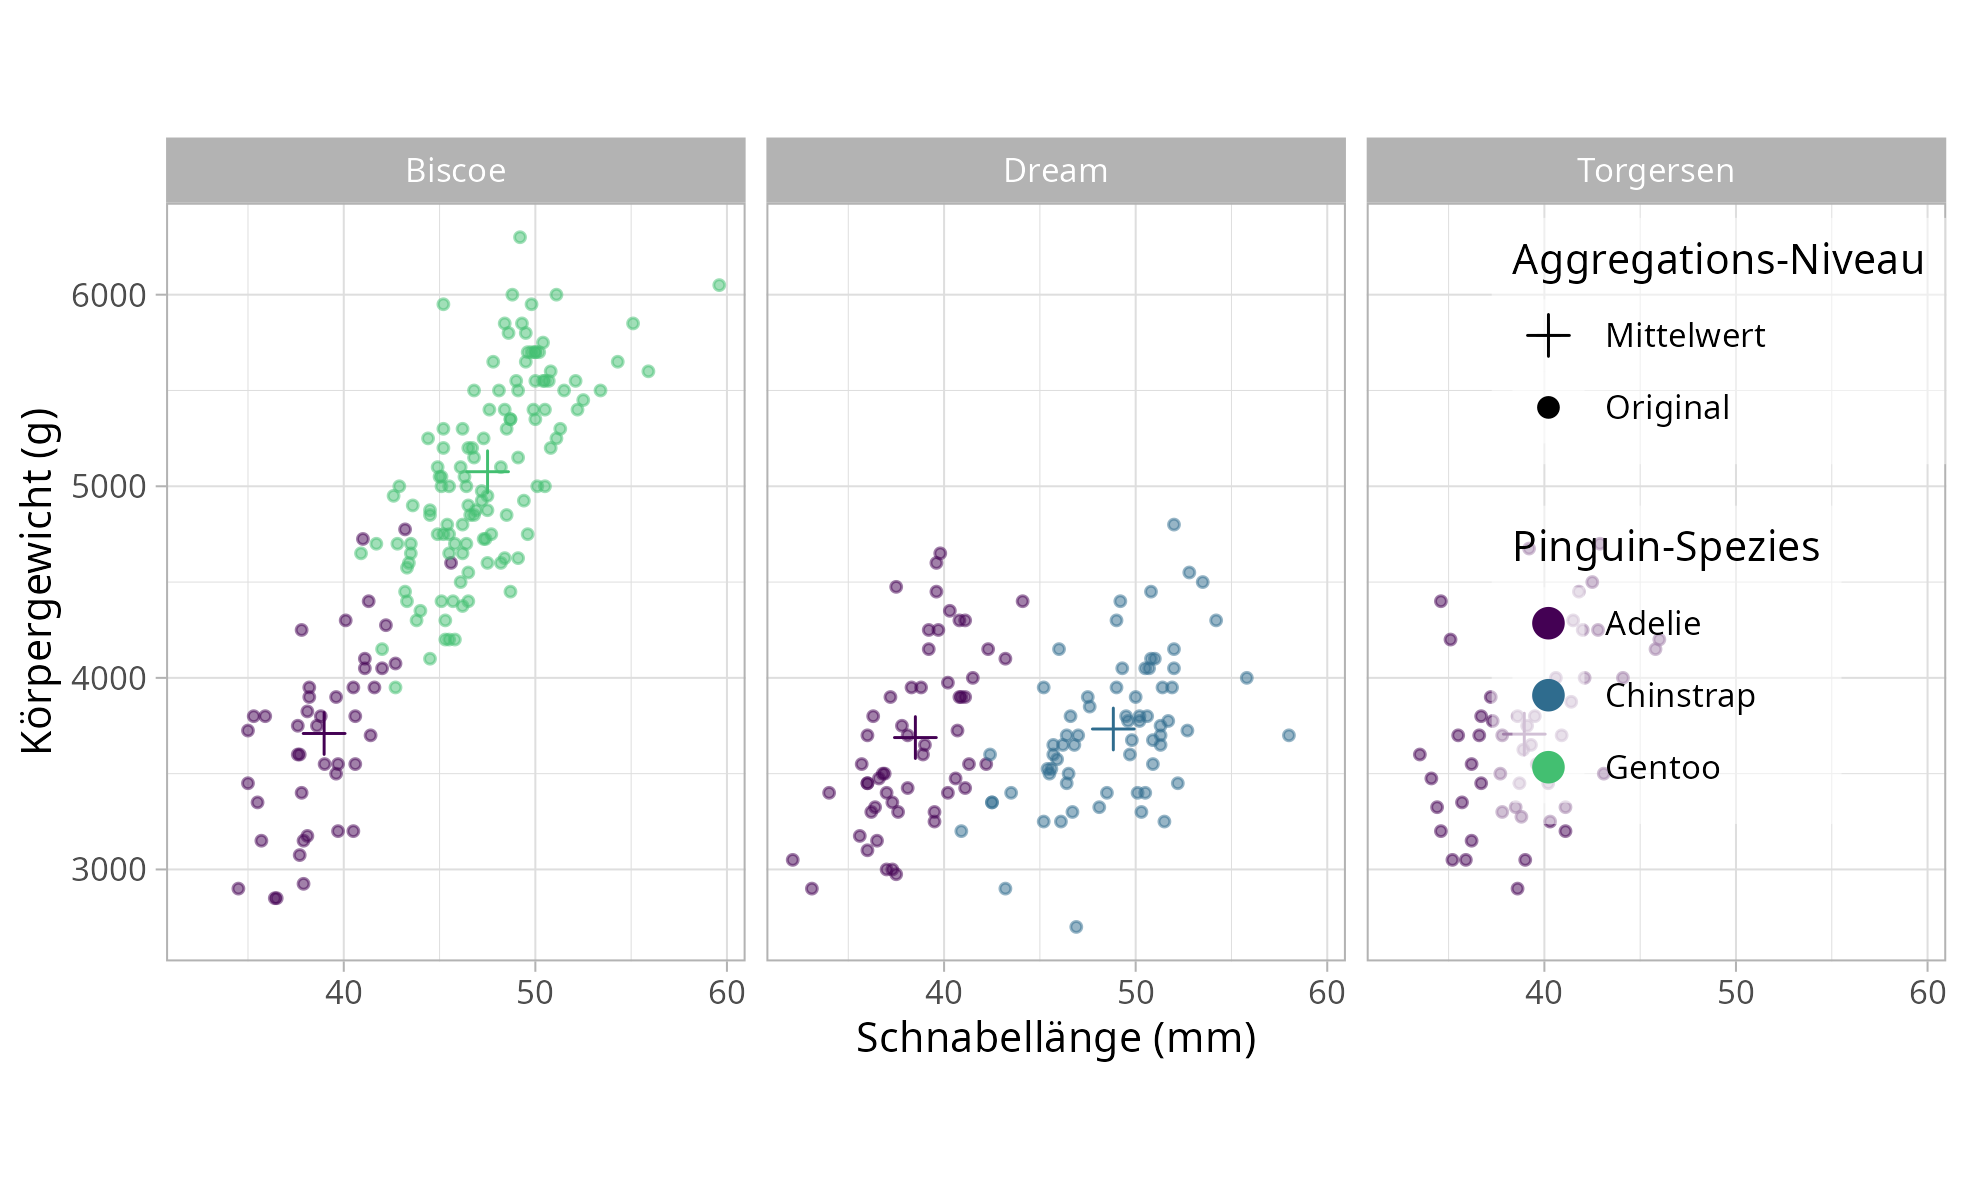
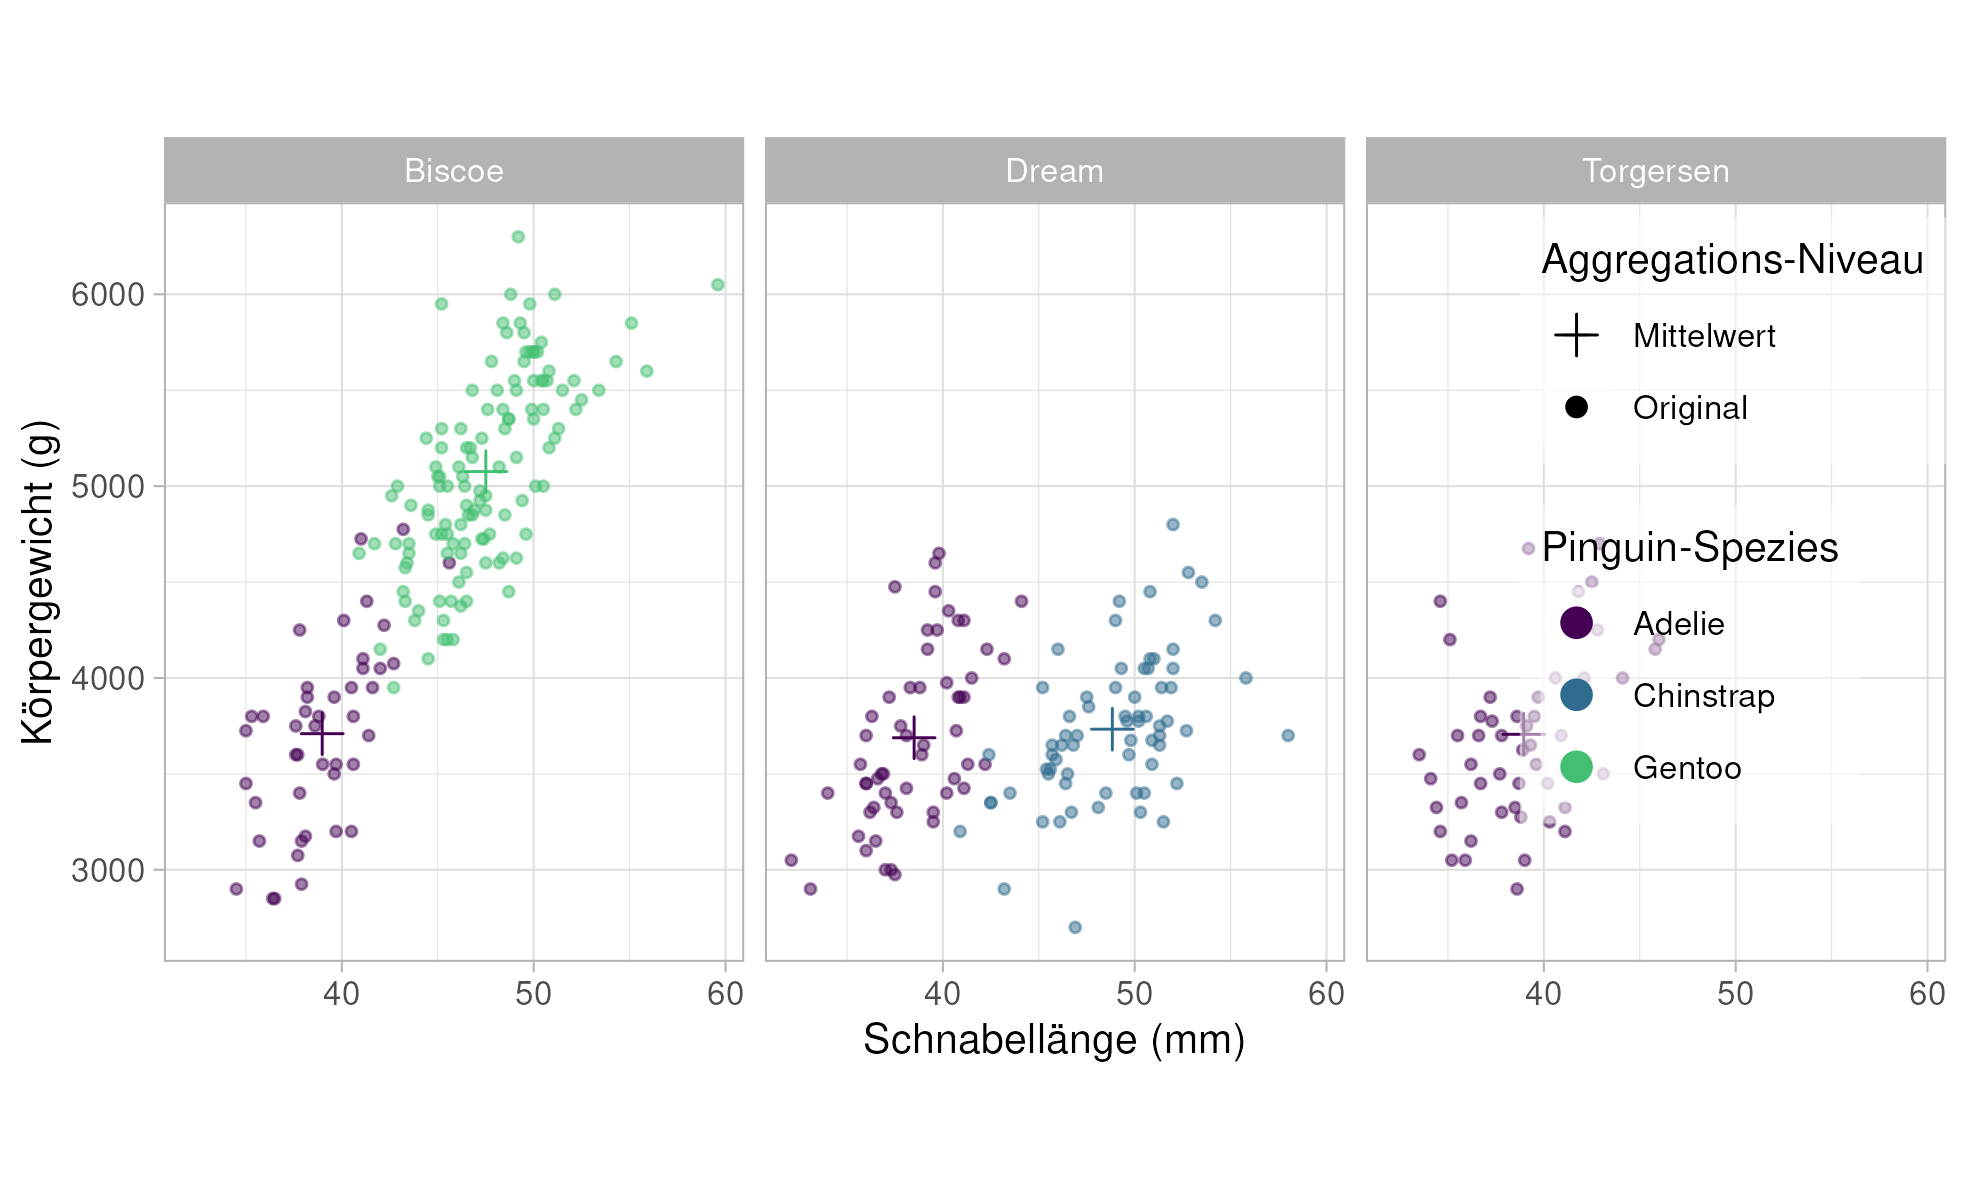
fixed error, added text about colab

diff --git a/docs/quarto/graphics.html b/docs/quarto/graphics.html
@@ -571,7 +571,7 @@ div.csl-indent {
 <span id="cb27-11"><a href="#cb27-11" aria-hidden="true" tabindex="-1"></a>  <span class="fu">scale_shape_manual</span>(<span class="at">values =</span> <span class="fu">c</span>(<span class="at">original =</span> <span class="dv">20</span>, <span class="at">mean =</span> <span class="dv">3</span>))<span class="sc">+</span></span>
 <span id="cb27-12"><a href="#cb27-12" aria-hidden="true" tabindex="-1"></a>  <span class="fu">coord_fixed</span>(<span class="at">ratio =</span> <span class="dv">10</span><span class="sc">/</span><span class="dv">1000</span>) <span class="sc">+</span></span>
 <span id="cb27-13"><a href="#cb27-13" aria-hidden="true" tabindex="-1"></a>  <span class="fu">facet_wrap</span>(<span class="sc">~</span>island) <span class="sc">+</span></span>
-<span id="cb27-14"><a href="#cb27-14" aria-hidden="true" tabindex="-1"></a>  <span class="fu">theme_light</span>(<span class="at">base_family =</span> <span class="st">'Helvetical'</span>,</span>
+<span id="cb27-14"><a href="#cb27-14" aria-hidden="true" tabindex="-1"></a>  <span class="fu">theme_light</span>(<span class="at">base_family =</span> <span class="st">'Helvetica'</span>,</span>
 <span id="cb27-15"><a href="#cb27-15" aria-hidden="true" tabindex="-1"></a>              <span class="at">base_size =</span> <span class="dv">10</span>)</span></code><button title="Copy to Clipboard" class="code-copy-button"><i class="bi"></i></button></pre></div>
 <div class="cell-output cell-output-stderr">
 <pre><code>Warning: Removed 2 rows containing missing values (`geom_point()`).</code></pre>
@@ -595,7 +595,7 @@ div.csl-indent {
 <span id="cb29-11"><a href="#cb29-11" aria-hidden="true" tabindex="-1"></a>  <span class="fu">scale_shape_manual</span>(<span class="at">values =</span> <span class="fu">c</span>(<span class="at">original =</span> <span class="dv">20</span>, <span class="at">mean =</span> <span class="dv">3</span>))<span class="sc">+</span></span>
 <span id="cb29-12"><a href="#cb29-12" aria-hidden="true" tabindex="-1"></a>  <span class="fu">coord_fixed</span>(<span class="at">ratio =</span> <span class="dv">10</span><span class="sc">/</span><span class="dv">1000</span>) <span class="sc">+</span></span>
 <span id="cb29-13"><a href="#cb29-13" aria-hidden="true" tabindex="-1"></a>  <span class="fu">facet_wrap</span>(<span class="sc">~</span>island) <span class="sc">+</span></span>
-<span id="cb29-14"><a href="#cb29-14" aria-hidden="true" tabindex="-1"></a>  <span class="fu">theme_light</span>(<span class="at">base_family =</span> <span class="st">'Helvetical'</span>,</span>
+<span id="cb29-14"><a href="#cb29-14" aria-hidden="true" tabindex="-1"></a>  <span class="fu">theme_light</span>(<span class="at">base_family =</span> <span class="st">'Helvetica'</span>,</span>
 <span id="cb29-15"><a href="#cb29-15" aria-hidden="true" tabindex="-1"></a>              <span class="at">base_size =</span> <span class="dv">10</span>) <span class="sc">+</span></span>
 <span id="cb29-16"><a href="#cb29-16" aria-hidden="true" tabindex="-1"></a>  <span class="fu">labs</span>(<span class="at">x =</span> <span class="st">'Schnabellänge (mm)'</span>,</span>
 <span id="cb29-17"><a href="#cb29-17" aria-hidden="true" tabindex="-1"></a>       <span class="at">y =</span> <span class="st">'Körpergewicht (g)'</span>,</span>
@@ -623,7 +623,7 @@ div.csl-indent {
 <span id="cb31-11"><a href="#cb31-11" aria-hidden="true" tabindex="-1"></a>  <span class="fu">scale_shape_manual</span>(<span class="at">values =</span> <span class="fu">c</span>(<span class="at">Original =</span> <span class="dv">20</span>, <span class="at">Mittelwert =</span> <span class="dv">3</span>))<span class="sc">+</span></span>
 <span id="cb31-12"><a href="#cb31-12" aria-hidden="true" tabindex="-1"></a>  <span class="fu">coord_fixed</span>(<span class="at">ratio =</span> <span class="dv">10</span><span class="sc">/</span><span class="dv">1000</span>) <span class="sc">+</span></span>
 <span id="cb31-13"><a href="#cb31-13" aria-hidden="true" tabindex="-1"></a>  <span class="fu">facet_wrap</span>(<span class="sc">~</span>island) <span class="sc">+</span></span>
-<span id="cb31-14"><a href="#cb31-14" aria-hidden="true" tabindex="-1"></a>  <span class="fu">theme_light</span>(<span class="at">base_family =</span> <span class="st">'Helvetical'</span>,</span>
+<span id="cb31-14"><a href="#cb31-14" aria-hidden="true" tabindex="-1"></a>  <span class="fu">theme_light</span>(<span class="at">base_family =</span> <span class="st">'Helvetica'</span>,</span>
 <span id="cb31-15"><a href="#cb31-15" aria-hidden="true" tabindex="-1"></a>              <span class="at">base_size =</span> <span class="dv">10</span>) <span class="sc">+</span></span>
 <span id="cb31-16"><a href="#cb31-16" aria-hidden="true" tabindex="-1"></a>  <span class="fu">labs</span>(<span class="at">x =</span> <span class="st">'Schnabellänge (mm)'</span>,</span>
 <span id="cb31-17"><a href="#cb31-17" aria-hidden="true" tabindex="-1"></a>       <span class="at">y =</span> <span class="st">'Körpergewicht (g)'</span>,</span>
@@ -651,7 +651,7 @@ div.csl-indent {
 <span id="cb33-11"><a href="#cb33-11" aria-hidden="true" tabindex="-1"></a>  <span class="fu">scale_shape_manual</span>(<span class="at">values =</span> <span class="fu">c</span>(<span class="at">Original =</span> <span class="dv">20</span>, <span class="at">Mittelwert =</span> <span class="dv">3</span>))<span class="sc">+</span></span>
 <span id="cb33-12"><a href="#cb33-12" aria-hidden="true" tabindex="-1"></a>  <span class="fu">coord_fixed</span>(<span class="at">ratio =</span> <span class="dv">10</span><span class="sc">/</span><span class="dv">1000</span>) <span class="sc">+</span></span>
 <span id="cb33-13"><a href="#cb33-13" aria-hidden="true" tabindex="-1"></a>  <span class="fu">facet_wrap</span>(<span class="sc">~</span>island) <span class="sc">+</span></span>
-<span id="cb33-14"><a href="#cb33-14" aria-hidden="true" tabindex="-1"></a>  <span class="fu">theme_light</span>(<span class="at">base_family =</span> <span class="st">'Helvetical'</span>,</span>
+<span id="cb33-14"><a href="#cb33-14" aria-hidden="true" tabindex="-1"></a>  <span class="fu">theme_light</span>(<span class="at">base_family =</span> <span class="st">'Helvetica'</span>,</span>
 <span id="cb33-15"><a href="#cb33-15" aria-hidden="true" tabindex="-1"></a>              <span class="at">base_size =</span> <span class="dv">10</span>) <span class="sc">+</span></span>
 <span id="cb33-16"><a href="#cb33-16" aria-hidden="true" tabindex="-1"></a>  <span class="fu">labs</span>(<span class="at">x =</span> <span class="st">'Schnabellänge (mm)'</span>,</span>
 <span id="cb33-17"><a href="#cb33-17" aria-hidden="true" tabindex="-1"></a>       <span class="at">y =</span> <span class="st">'Körpergewicht (g)'</span>,</span>
@@ -671,7 +671,7 @@ div.csl-indent {
 <h2 data-number="2.4" class="anchored" data-anchor-id="convenient-standards"><span class="header-section-number">2.4</span> Convenient Standards</h2>
 <p>Die beiden <code>theme</code>-Funktionen müssten wir so an jede Grafik anfügen. Solche Wiederholungen sind schlechter Stil und stören beim Lesen des Skripts, deswegen bietet <code>ggplot2</code> convenience-Funktionen um allgemeine Einstellungen zu setzen. Mit dem folgenden Snippet am Anfang des Skripts werden die Standards für alle Grafiken genutzt:</p>
 <div class="cell">
-<div class="sourceCode cell-code" id="cb35"><pre class="sourceCode r code-with-copy"><code class="sourceCode r"><span id="cb35-1"><a href="#cb35-1" aria-hidden="true" tabindex="-1"></a>my_theme <span class="ot">&lt;-</span>  <span class="fu">theme_light</span>(<span class="at">base_family =</span> <span class="st">'Helvetical'</span>,</span>
+<div class="sourceCode cell-code" id="cb35"><pre class="sourceCode r code-with-copy"><code class="sourceCode r"><span id="cb35-1"><a href="#cb35-1" aria-hidden="true" tabindex="-1"></a>my_theme <span class="ot">&lt;-</span>  <span class="fu">theme_light</span>(<span class="at">base_family =</span> <span class="st">'Helvetica'</span>,</span>
 <span id="cb35-2"><a href="#cb35-2" aria-hidden="true" tabindex="-1"></a>              <span class="at">base_size =</span> <span class="dv">10</span>) <span class="sc">+</span></span>
 <span id="cb35-3"><a href="#cb35-3" aria-hidden="true" tabindex="-1"></a>  <span class="fu">theme</span>(<span class="at">legend.position =</span> <span class="st">'bottom'</span>)</span>
 <span id="cb35-4"><a href="#cb35-4" aria-hidden="true" tabindex="-1"></a></span>

diff --git a/docs/quarto/quarto.html b/docs/quarto/quarto.html
@@ -149,6 +149,7 @@ ul.task-list li input[type="checkbox"] {
   <li><a href="#code-chunk-optionen" id="toc-code-chunk-optionen" class="nav-link" data-scroll-target="#code-chunk-optionen"><span class="toc-section-number">4.3</span>  Code-Chunk-Optionen</a></li>
   <li><a href="#sec-inline" id="toc-sec-inline" class="nav-link" data-scroll-target="#sec-inline"><span class="toc-section-number">4.4</span>  Inline Code-Chunks</a></li>
   <li><a href="#aufgabe" id="toc-aufgabe" class="nav-link" data-scroll-target="#aufgabe"><span class="toc-section-number">4.5</span>  Aufgabe</a></li>
+  <li><a href="#zusammenarbeit" id="toc-zusammenarbeit" class="nav-link" data-scroll-target="#zusammenarbeit"><span class="toc-section-number">4.6</span>  Zusammenarbeit</a></li>
   </ul>
 <div class="toc-actions"><div><i class="bi bi-github"></i></div><div class="action-links"><p><a href="https://github.com/MBrede/r_thesis_tools/issues/new" class="toc-action">Report an issue</a></p></div></div></nav>
     </div>
@@ -318,6 +319,12 @@ execute:
 <li><p>Beschrifte alle Grafiken und Tabellen.</p></li>
 <li><p>Render das Dokument als <code>docx</code>.</p></li>
 </ol>
+</section>
+<section id="zusammenarbeit" class="level2" data-number="4.6">
+<h2 data-number="4.6" class="anchored" data-anchor-id="zusammenarbeit"><span class="header-section-number">4.6</span> Zusammenarbeit</h2>
+<p>Der größte Nachteil an Quarto ist der etwas umständlichere Workflow beim Kommentieren und Zusammenarbeiten als das in Word möglich ist.</p>
+<p>Die Dokumente können zwar immer in word gerendert und dann ausgetauscht werden, etwaige Anmerkungen können aber nicht direkt in Quarto eingepflegt werden.</p>
+<p>Unter <a href="https://mbrede.github.io/blog/academic_collaboration_using_markdown_github/">diesem Link</a> findet Ihr aber eine Anleitung, wie man die Zusammenarbeit über git ermöglichen kann.</p>
 
 
 </section>
